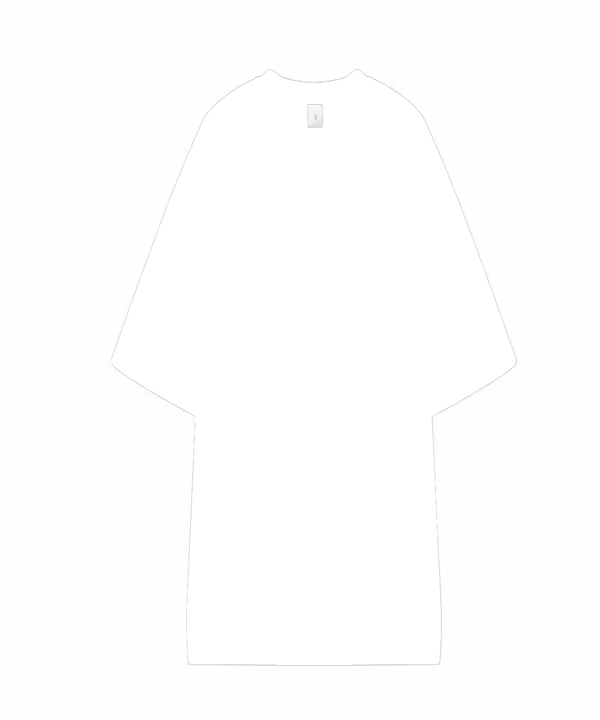
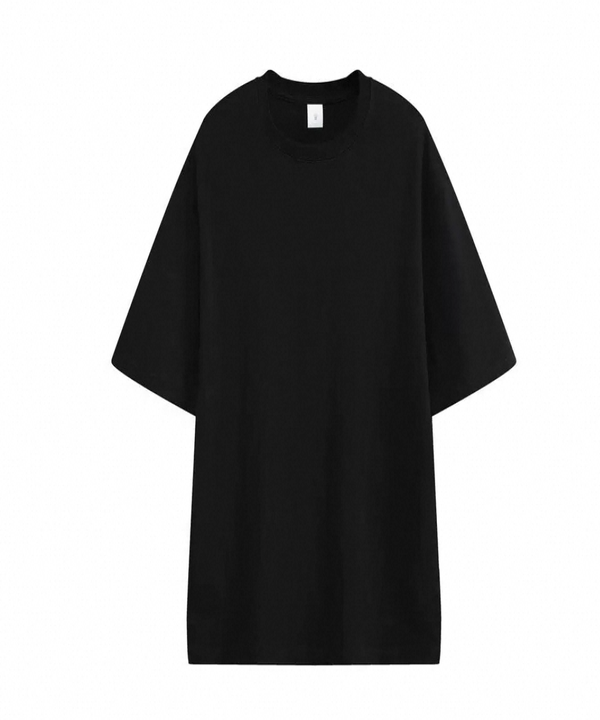
fix: 修复着色算法支持深色底图 + 黑色默认

diff --git a/index.html b/index.html
@@ -333,7 +333,7 @@ const PRINT_ZONES = {
 };
 
 const GARMENT_COLORS = [
-  {name:'白色',hex:'#FFFFFF'},{name:'黑色',hex:'#2a2a2a'},{name:'烟灰',hex:'#7a7a7a'},
+  {name:'黑色',hex:'#2a2a2a'},{name:'白色',hex:'#FFFFFF'},{name:'烟灰',hex:'#7a7a7a'},
   {name:'藏青',hex:'#2c3e6b'},{name:'红色',hex:'#c0392b'},{name:'酒红',hex:'#8b2252'},
   {name:'军绿',hex:'#4a5e3a'},{name:'粉色',hex:'#e8a0b4'},{name:'杏色',hex:'#e8cdb0'},
   {name:'紫色',hex:'#6c5b8a'},{name:'天蓝',hex:'#6ba3c9'},{name:'明黄',hex:'#f0c040'},
@@ -422,9 +422,16 @@ function preloadGarmentImages() {
   return Promise.all(promises);
 }
 
+/**
+ * Tint garment: works for both light AND dark base garments.
+ * Strategy: the garment pixels (dark, L<80) get replaced with target color
+ * adjusted by their original luminance ratio to preserve fabric texture.
+ * Background (light, L>220) stays untouched. Edge zone blends smoothly.
+ */
 function tintCanvas(ctx, img, w, h, hex) {
   ctx.drawImage(img, 0, 0, w, h);
-  if (hex === '#FFFFFF') return;
+  // For black garment, #2a2a2a is "natural" — skip tinting
+  if (hex === '#2a2a2a') return;
   const id = ctx.getImageData(0, 0, w, h);
   const d = id.data;
   const cr = parseInt(hex.slice(1,3),16);
@@ -432,12 +439,26 @@ function tintCanvas(ctx, img, w, h, hex) {
   const cb = parseInt(hex.slice(5,7),16);
   for (let i = 0; i < d.length; i += 4) {
     const L = d[i]*0.299 + d[i+1]*0.587 + d[i+2]*0.114;
-    if (L > 245) {
-      d[i]=cr; d[i+1]=cg; d[i+2]=cb;
-    } else if (L > 230) {
-      const t = (L - 230) / 15;
-      d[i]=(d[i]*(1-t)+cr*t)|0; d[i+1]=(d[i+1]*(1-t)+cg*t)|0; d[i+2]=(d[i+2]*(1-t)+cb*t)|0;
+    if (L < 80) {
+      // Garment body: apply target color, scale by luminance ratio to keep texture
+      // L/40 gives subtle shading (original L~23 → ratio ~0.58, keeps depth)
+      const shade = Math.min(L / 50, 1.0);
+      d[i]   = (cr * shade)|0;
+      d[i+1] = (cg * shade)|0;
+      d[i+2] = (cb * shade)|0;
+      // For white: make it truly white
+      if (hex === '#FFFFFF') { d[i] = d[i+1] = d[i+2] = Math.max(200, (L/80*255)|0); }
+    } else if (L < 120) {
+      // Edge transition zone: blend from tinted to original
+      const t = (L - 80) / 40; // 0=garment, 1=near-bg
+      const shade = Math.min(L / 50, 1.0);
+      let tr = (cr * shade)|0, tg = (cg * shade)|0, tb = (cb * shade)|0;
+      if (hex === '#FFFFFF') { tr = tg = tb = Math.max(200, (L/80*255)|0); }
+      d[i]   = (tr*(1-t) + d[i]*t)|0;
+      d[i+1] = (tg*(1-t) + d[i+1]*t)|0;
+      d[i+2] = (tb*(1-t) + d[i+2]*t)|0;
     }
+    // L >= 120: background, leave untouched
   }
   ctx.putImageData(id, 0, 0);
 }
